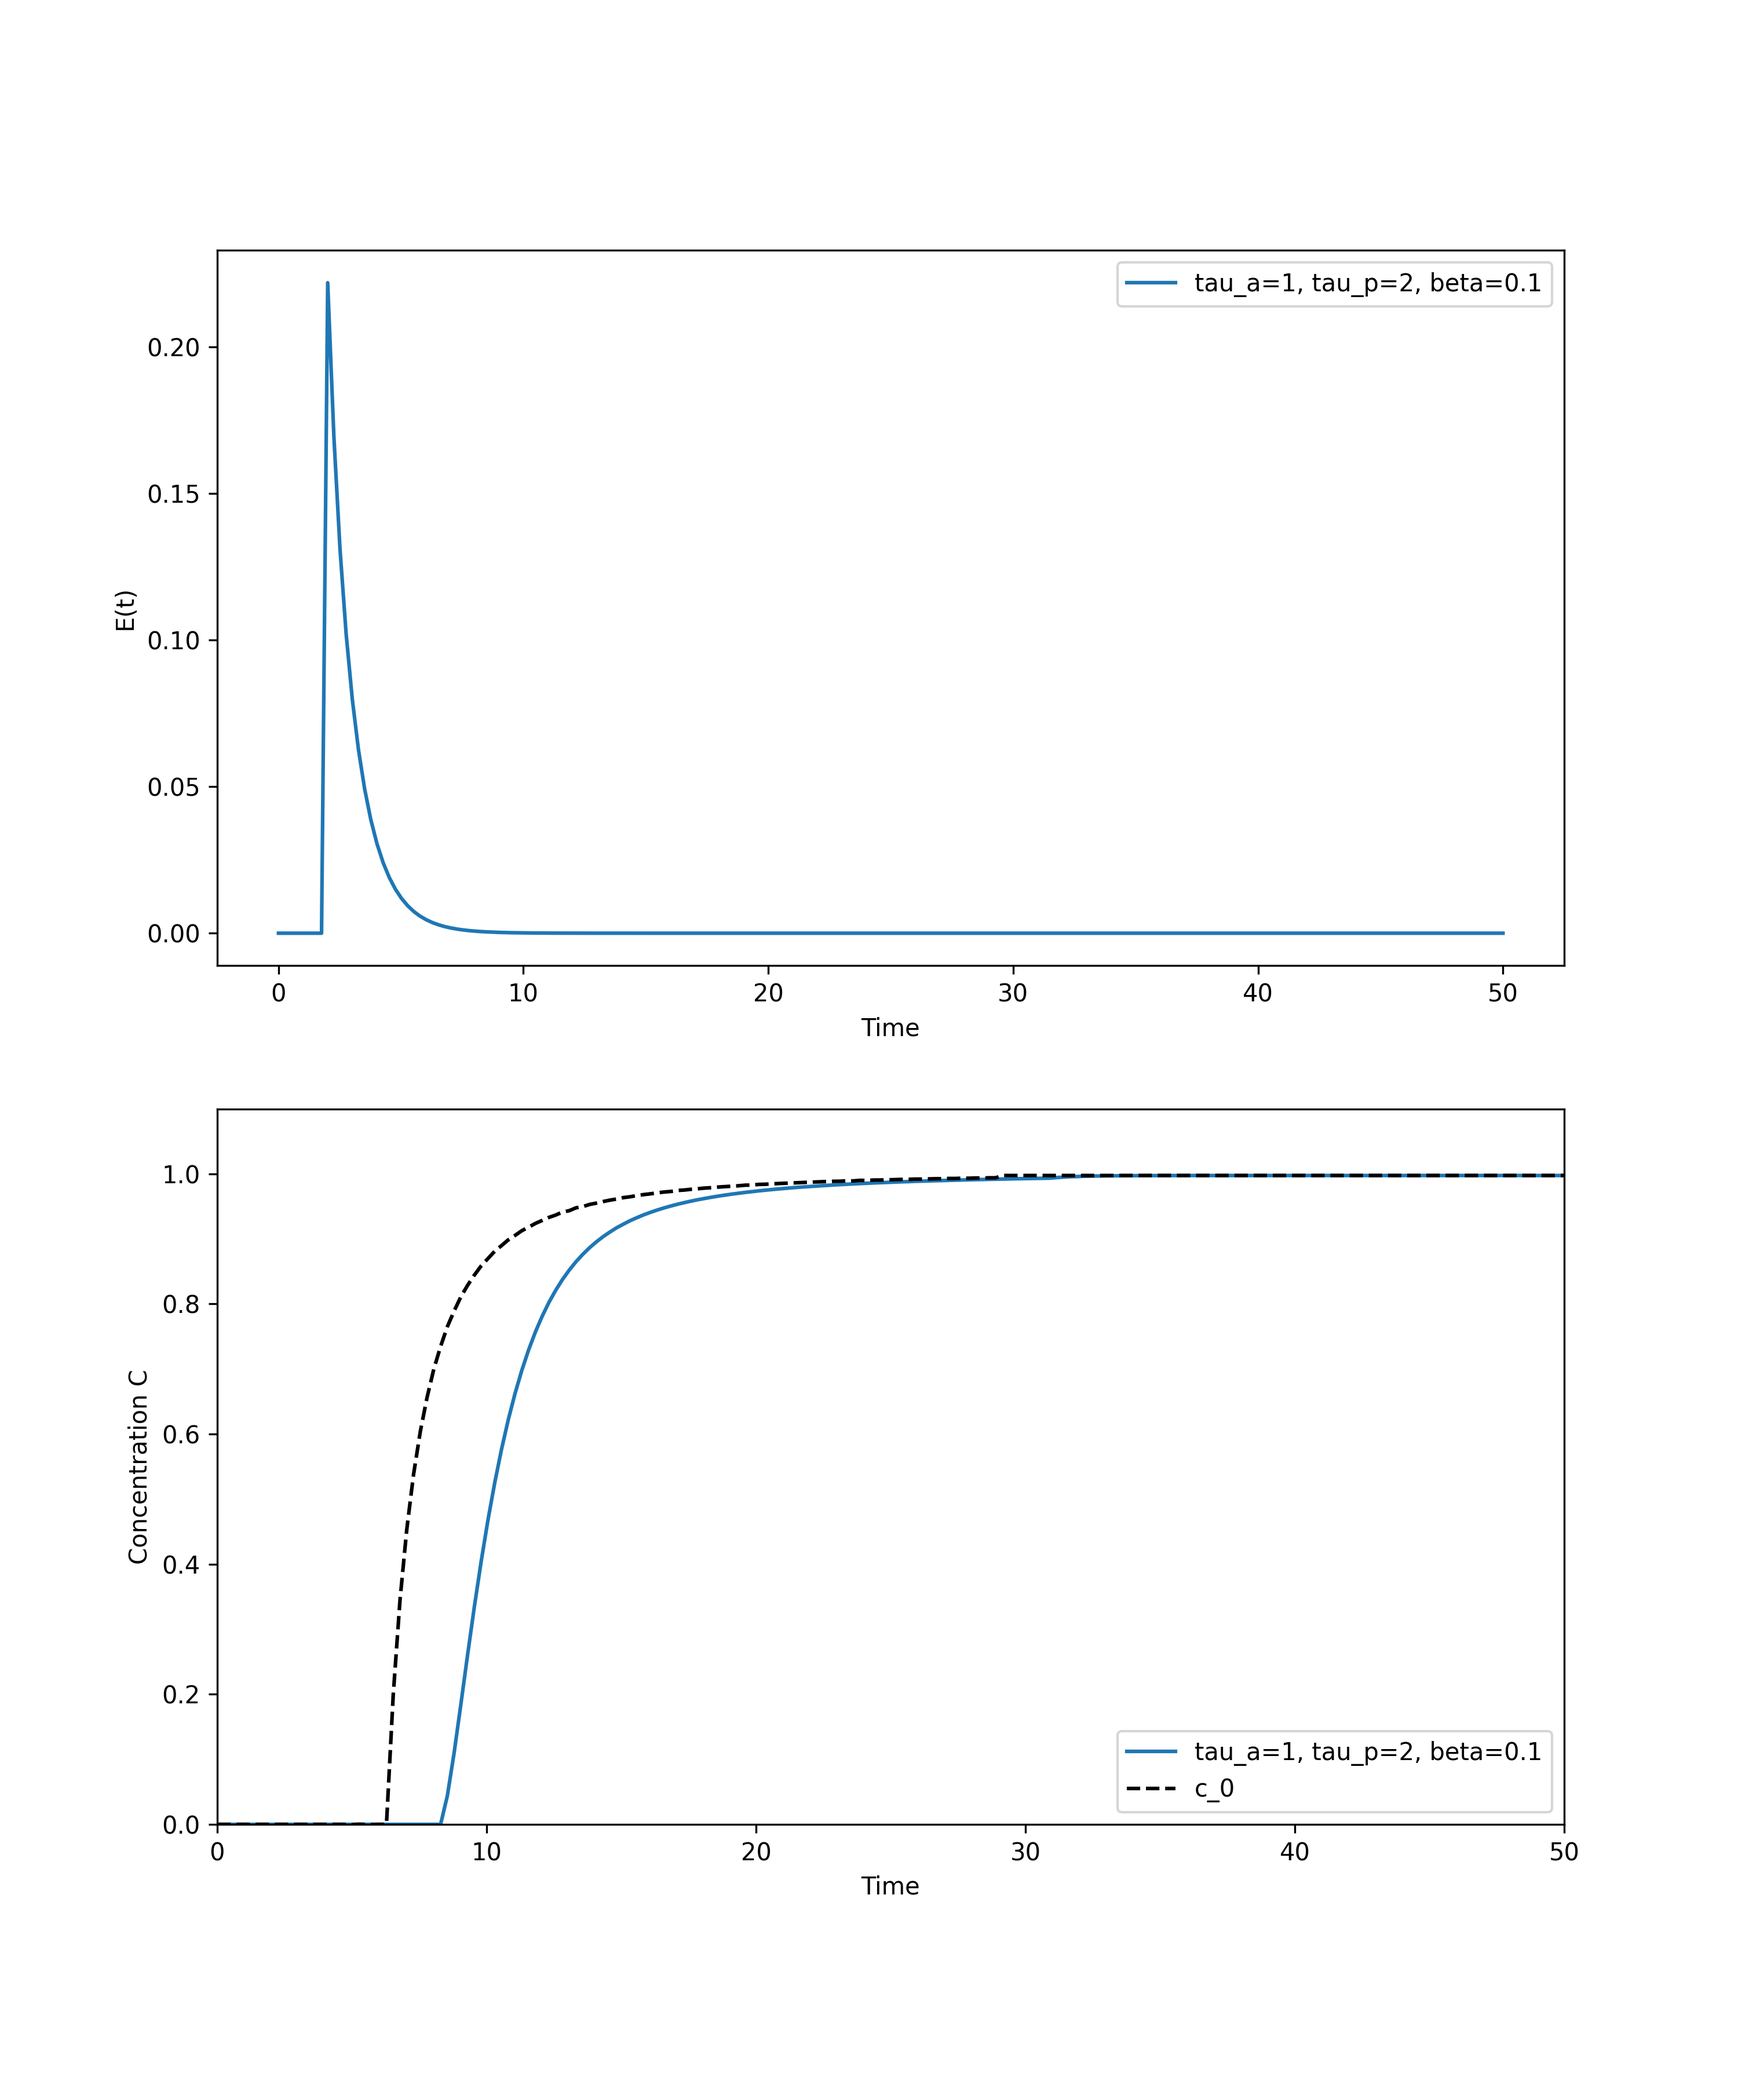
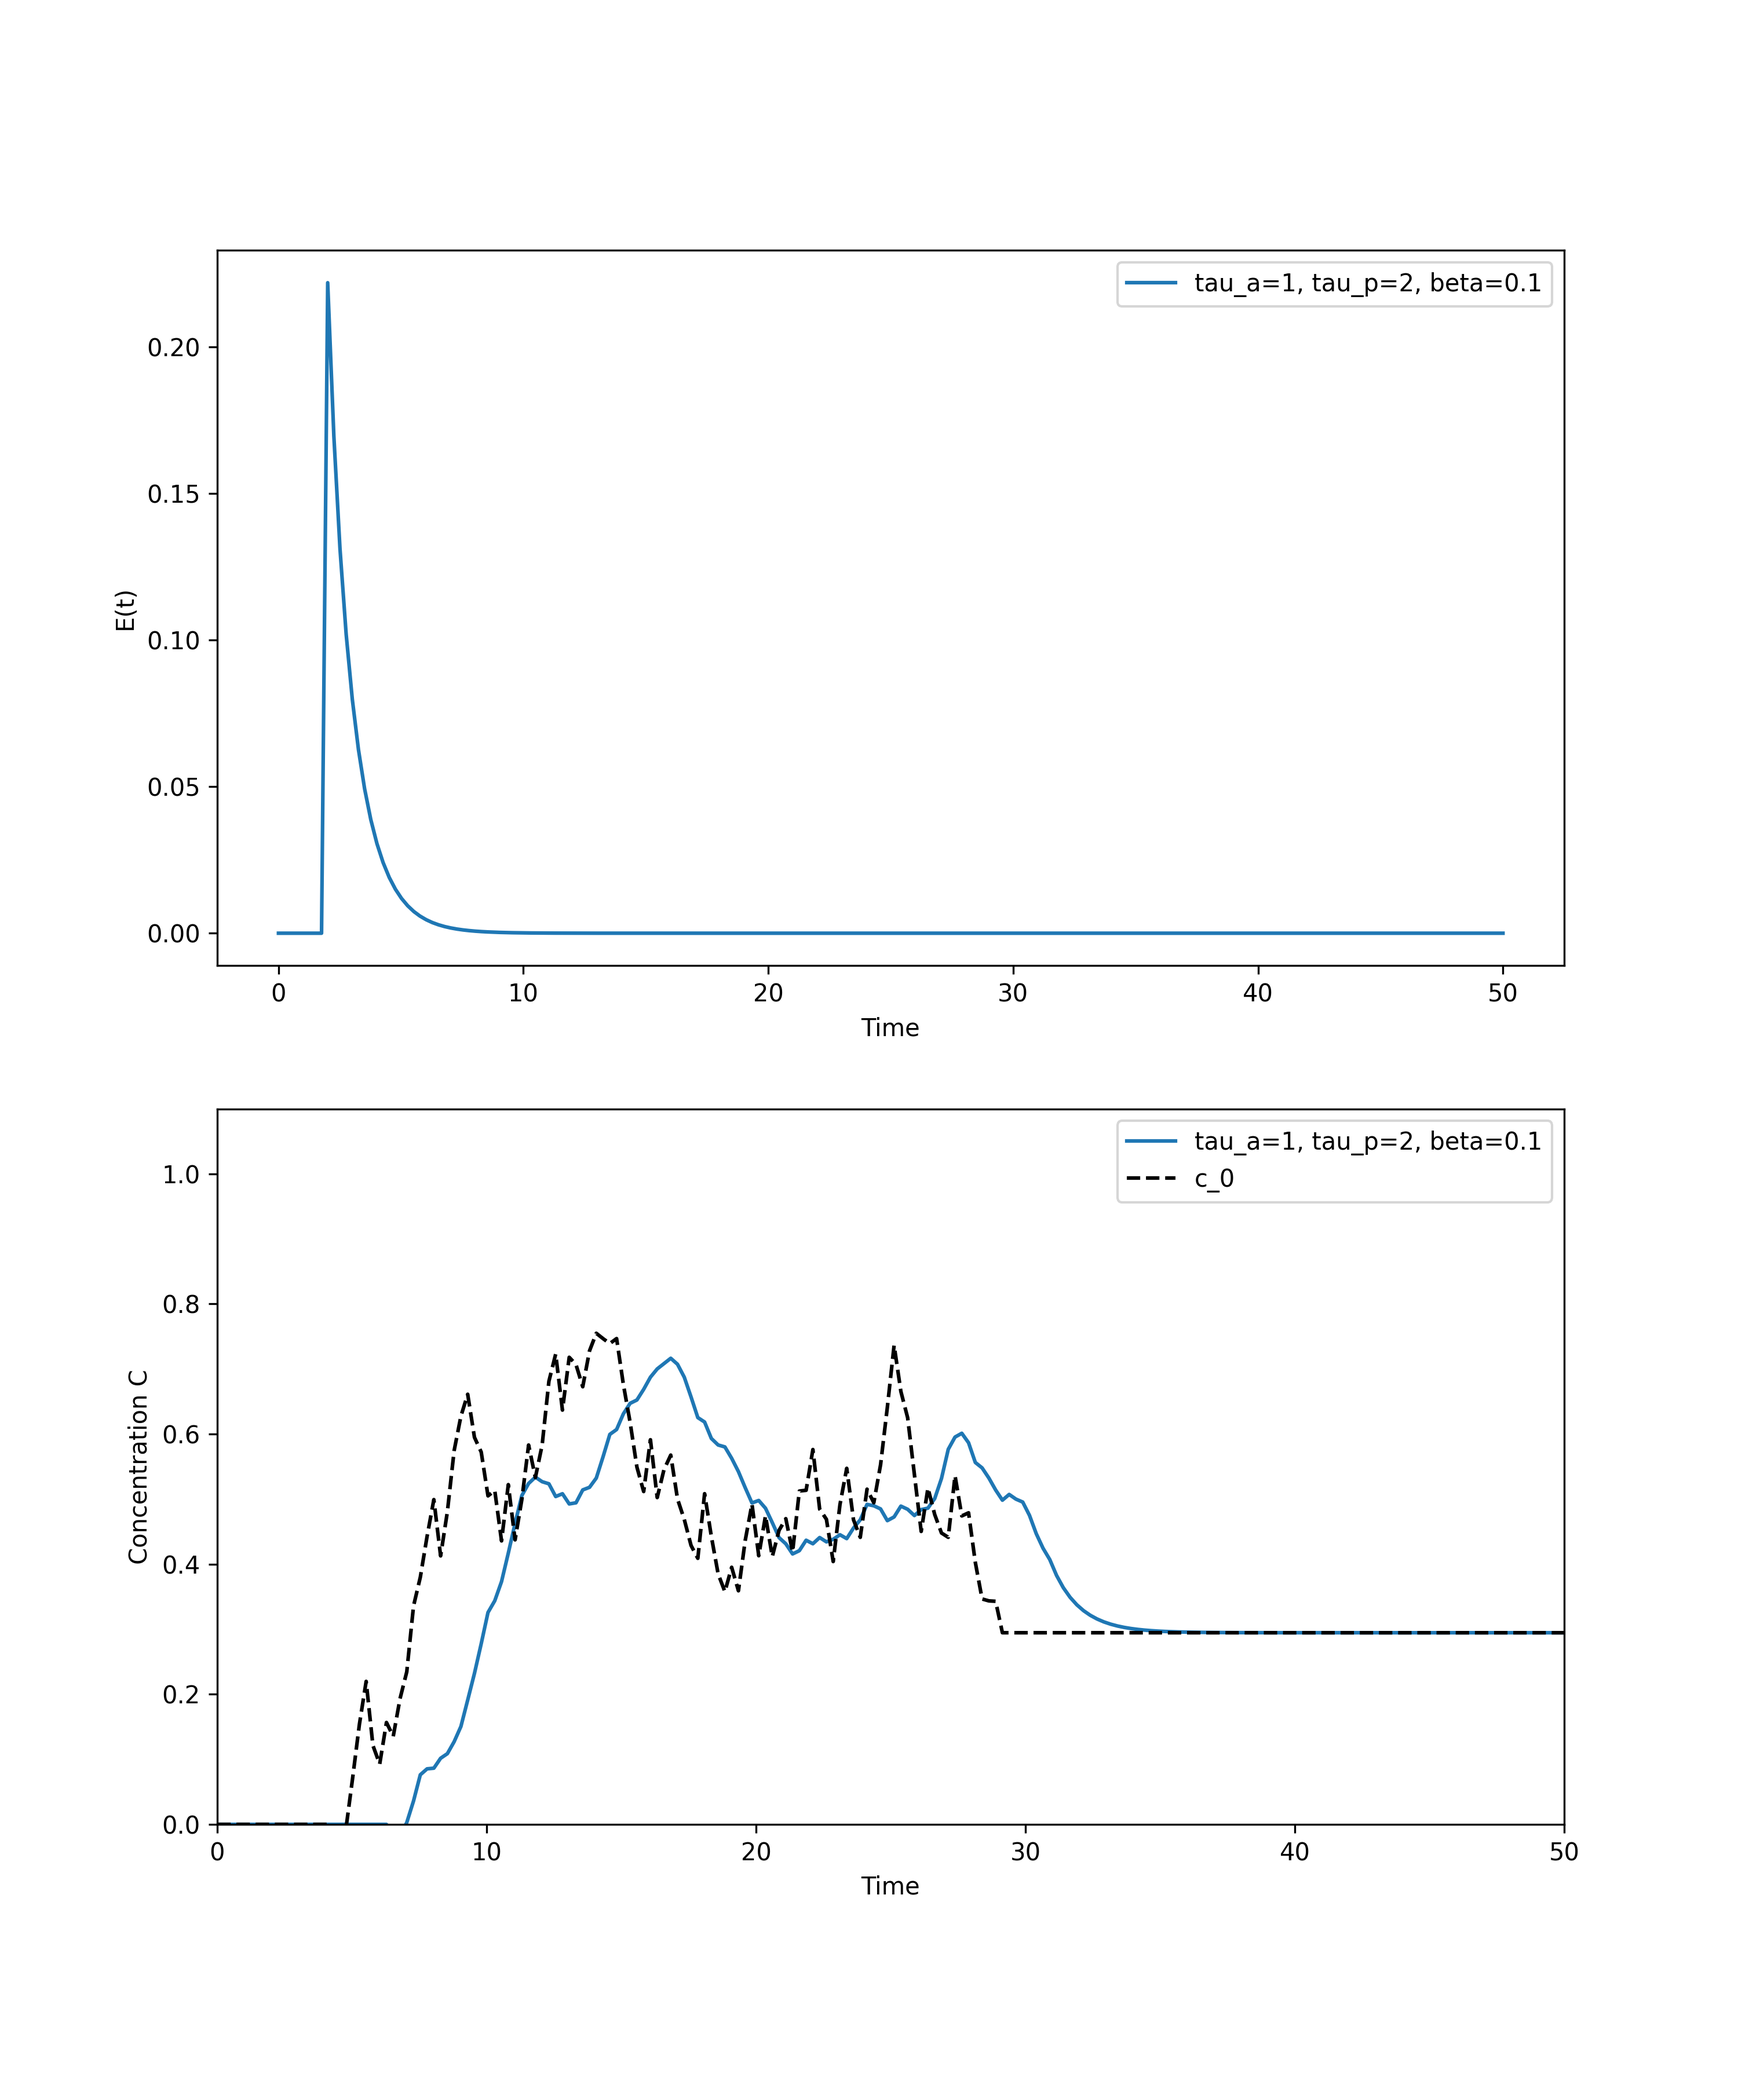
2ndlayer

diff --git a/Experiments/Preliminary/2_nd_Layer_Convolution/Combined_Hannes_suggested_code.py b/Experiments/Preliminary/2_nd_Layer_Convolution/Combined_Hannes_suggested_code.py
@@ -1,11 +1,3 @@
-#!/usr/bin/env python3
-# -*- coding: utf-8 -*-
-"""
-Created on Mon Nov  4 01:23:20 2024
-
-@author: tuanaoyuncu
-"""
-
 import matplotlib.pyplot as plt
 import numpy.typing as npt
 import sys
@@ -28,12 +20,13 @@ n_1_in=100
 n_1_E=99
 n_1_out=200
 n_2_in=n_1_out
-n_2_E=132
+n_2_E=133
 n_2_out=334
 t_lam=60
 t_adl=50
 t_1=30
 t_e=30
+t_e_2=25
 
 #Parameters
 tau_l = 5.0
@@ -163,32 +156,29 @@ c_1_in = torch.zeros((1, 1, n_1_in)).float()
 indices = (t_1_in > 5).squeeze()
 c_1_in[:, :, indices] = 1
 
-# Convert c_out and t_conv to float32
 
-print("c_1_in shape:", c_1_in.shape)  # Should be [1, 1, 100]
-print("t_1_in shape:", t_1_in.shape)  # Should also be [1, 1, 100]
 
-# c_out_list = [torch.tensor(c_out_l)]  # Ensure c_out_l is a tensor
+print("c_1_in shape:", c_1_in.shape)  
+print("t_1_in shape:", t_1_in.shape) 
+
+# c_out_list = [torch.tensor(c_out_l)]  
 
 # # Concatenate tensors in c_out_list along the specified dimension
 # t_conv_list = [torch.tensor(t_conv_l)]
 # c_out = torch.cat(c_out_list, dim=0)
 # t_conv = torch.cat(t_conv_list, dim=0)
 
-c_out_l = torch.tensor(c_out_l).unsqueeze(0).unsqueeze(0)  # Shape [1, 1, 200]
-t_conv_l = torch.tensor(t_conv_l).unsqueeze(0).unsqueeze(0)  # Shape [1, 1, 200]
+c_out_l = torch.tensor(c_out_l).unsqueeze(0).unsqueeze(0)  
+t_conv_l = torch.tensor(t_conv_l).unsqueeze(0).unsqueeze(0) 
 c_out = torch.cat([torch.tensor(c_out_l)], dim=0).float()
 t_conv = torch.cat([torch.tensor(t_conv_l)], dim=0).float()
-# Combine into list if needed
 c_out_list = [c_out_l]
 t_conv_list = [t_conv_l]
-
-# Concatenate along the last dimension
 c_out = torch.cat(c_out_list, dim=-1)
 t_conv = torch.cat(t_conv_list, dim=-1)
 
-print("c_out shape:", c_out.shape)  # Should be [1, 1, 100]
-print("t_conv shape:", t_conv.shape)  # Should also be [1, 1, 100]
+print("c_out shape:", c_out.shape)  
+print("t_conv shape:", t_conv.shape)  
 model = RTDModule(
         kernel_size=n_1_E,
         learning_rate=1e-3,
@@ -202,51 +192,34 @@ t_E = torch.linspace(0, t_e, model.kernel_size)
 E /= E.max()
 print(model(c_1_in).size())
 
-# Convert data in TensorDataset to float32
+
 ds = TensorDataset(c_1_in.float(), c_out_l.float())
+print("c_1_in.float()",c_1_in.float().shape)
+print("c_out_l.float()",c_out_l.float().shape)
 
 dl = DataLoader(ds, batch_size=20, shuffle=True)
-trainer = pl.Trainer(accelerator="auto", max_epochs=10000, deterministic=True)
+trainer = pl.Trainer(accelerator="auto", max_epochs=1, deterministic=True)
 trainer.fit(model, dl)
 trainer.test(model, dl)
 c_conv = model(c_1_in)
 c_conv_results[n_1_out] = c_conv.detach().numpy()
+print("c_conv_results",c_conv.detach().numpy().shape)
 E = model.net.E[0]
 t_E = torch.linspace(0, t_e, model.kernel_size)
 E = E / E.max()
 
-# fig, (ax1, ax2) = plt.subplots(2, 1, sharex=True, figsize=(10, 8))
-# fig.subplots_adjust(hspace=0)
-# ax1.plot(t_1_in, c_1_in[0, 0, :].numpy(), label="Input Signal", color="blue")
-# ax1.plot(t_conv[0, 0, :].numpy(), c_out_l[0, 0, :].numpy(), label="Expected Output", color="green")
-# ax1.plot(t_conv[0, 0, :].numpy(), c_conv[0, 0, :].detach().numpy(), label="Predicted Output", color="red", linestyle="--")
-# ax1.set_xlim((0, 30))
-# ax1.set_ylim((0, 1.1))
-# ax1.set_ylabel('Concentration')
-# ax1.legend()
-
-# ax2.plot(t_E, E, label="Predicted E", color="orange")
-# ax2.plot(t_l, E_laminar, label="Expected E", color="purple", linestyle="--")
-# ax2.set_xlabel('Time')
-# ax2.set_ylabel('E')
-# ax2.legend()
-
-# #plt.savefig(os.path.join(first_layer_CNN_dir, f'Profile_{current_date}_1st_Convolution_Layer_{n_disc_o}.png'), dpi=300)
-# plt.show()
-
-
-
 fig, (ax1, ax2) = plt.subplots(2, 1, sharex=True, figsize=(10, 8))
 fig.subplots_adjust(hspace=0)
 
-# Adjust shapes for compatibility
+
 t_1_in_reshaped = t_1_in.squeeze().numpy()
 c_1_in_reshaped = c_1_in[0, 0, :].squeeze().numpy()
 t_conv_reshaped = t_conv[0, 0, :].squeeze().numpy()
 c_out_l_reshaped = c_out_l[0, 0, :].squeeze().numpy()
 c_conv_reshaped = c_conv[0, 0, :].detach().squeeze().numpy()
+print("c_conv",c_conv.shape)
 
-# Plot the first graph
+
 ax1.plot(t_1_in_reshaped, c_1_in_reshaped, label="Input Signal", color="blue")
 ax1.plot(t_conv_reshaped, c_out_l_reshaped, label="Expected Output", color="green")
 ax1.plot(t_conv_reshaped, c_conv_reshaped, label="Predicted Output", color="red", linestyle="--")
@@ -256,6 +229,55 @@ ax1.set_ylabel('Concentration')
 ax1.legend()
 
 
+c_conv_2_results = {}
+model_2 = RTDModule(
+        kernel_size=n_2_E,
+        learning_rate=1e-3,
+        use_scheduler=True,
+        scheduler_kwargs={"factor": 0.5, "patience": 80},
+    )
+c_conv_2 = model(c_conv)
+E = model.net.E[0]
+t_E = torch.linspace(0, t_e_2, model.kernel_size)
+E /= E.max()
+
+c_out_Adler_tensor = torch.tensor(c_out_Adler).float().unsqueeze(0).unsqueeze(0)
+ds = TensorDataset(c_conv.float(), c_out_Adler_tensor)
+print("c_conv.float()",c_conv.shape)
+print("c_out_Adler_tensor",c_out_Adler_tensor.shape)
+dl = DataLoader(ds, batch_size=1, shuffle=True)
+
+print("c_2_in shape:", c_conv.shape)  
+print("t_2_in shape:", t_conv.shape) 
+print("c_2_out shape:", c_out_Adler_tensor.shape) 
+
+trainer = pl.Trainer(accelerator="auto", max_epochs=10000, deterministic=True)
+trainer.fit(model, dl)
+trainer.test(model, dl)
+c_conv_2 = model(c_conv)
+c_conv_results[n_2_out] = c_conv_2.detach().numpy()
+E = model.net.E[0]
+t_E = torch.linspace(0, t_e_2, model.kernel_size)
+E = E / E.max()
+
+fig, (ax1, ax2) = plt.subplots(2, 1, sharex=True, figsize=(10, 8))
+fig.subplots_adjust(hspace=0)
+
+
+# t_1_in_reshaped = t_1_in.squeeze().numpy()
+# c_1_in_reshaped = c_1_in[0, 0, :].squeeze().numpy()
+# t_conv_reshaped = t_conv[0, 0, :].squeeze().numpy()
+# c_out_l_reshaped = c_out_l[0, 0, :].squeeze().numpy()
+# c_conv_reshaped = c_conv[0, 0, :].detach().squeeze().numpy()
+
+
+ax1.plot(t_conv, c_conv, label="Input Signal", color="blue")
+ax1.plot(t_conv_Adler, c_out_Adler, label="Expected Output", color="green")
+ax1.plot(t_conv_Adler, c_conv_2, label="Predicted Output", color="red", linestyle="--")
+ax1.set_xlim((0, 30))
+ax1.set_ylim((0, 1.1))
+ax1.set_ylabel('Concentration')
+ax1.legend()
 
 # model_1= RTDModule(
 #     kernel_size=n_0_E,

diff --git a/Experiments/Preliminary/Noisy_data/Sqrt_Method/Laminar_Flow_Model_Sqrt_Noisy_multiple.py b/Experiments/Preliminary/Noisy_data/Sqrt_Method/Laminar_Flow_Model_Sqrt_Noisy_multiple.py
@@ -22,10 +22,10 @@ import wandb
 
 n_disc = 100
 t_input = torch.linspace(0, 30, n_disc)
-c_in = torch.zeros((20, 1, n_disc))
+c_in = torch.zeros((10, 1, n_disc))
 c_in[:, :, t_input > 5] = 1
 #c_in[1::2, :, t_input < 5] = 1
-file_numbers = range(1, 21)
+file_numbers = range(1, 11)
 c_out_list = []
 t_conv_list = []
 # file_numbers = range(1, 21, 2)
@@ -94,14 +94,19 @@ ds = TensorDataset(c_in, c_out)
 dl = DataLoader(ds, batch_size=20, shuffle=True)
 
 # set up the logger
-wandb_logger = pl_loggers.WandbLogger(
-    project="nRTD",
-    log_model=True)
+# wandb_logger = pl_loggers.WandbLogger(
+#     project="nRTD",
+#     log_model=True)
 
+# trainer = pl.Trainer(
+#     accelerator="auto",
+#     max_epochs=10000,
+#     logger=wandb_logger, deterministic=True
+# )
 trainer = pl.Trainer(
     accelerator="auto",
     max_epochs=10000,
-    logger=wandb_logger, deterministic=True
+     deterministic=True
 )
 
 trainer.fit(model, dl)
@@ -146,7 +151,7 @@ plt.legend()
 
 #wandb.finish()
 
-#plt.savefig("Figure_C_002_H_135_C2")
+plt.savefig("10_file_Noisy")
 plt.show()
 
 

diff --git a/Experiments/Preliminary/2_nd_Layer_Convolution/2nd_Layer.py b/Experiments/Preliminary/2_nd_Layer_Convolution/2nd_Layer.py
@@ -9,7 +9,7 @@ from torch.utils.data import TensorDataset, DataLoader
 import lightning.pytorch as pl
 import numpy as np
 import wandb
-from nrtd import RTDModule
+from nRTD import RTDModule
 from lightning.pytorch import loggers as pl_loggers
 import sympy as sp
 import os
@@ -120,7 +120,7 @@ for n_disc_o, kernel_size, n_disc in discretization_confg:
     ds = TensorDataset(c_in, c_out_tau)
     dl = DataLoader(ds, batch_size=20, shuffle=True)
 
-    trainer = pl.Trainer(accelerator="auto", max_epochs=10000, deterministic=True)
+    trainer = pl.Trainer(accelerator="auto", max_epochs=1, deterministic=True)
     trainer.fit(model, dl)
     trainer.test(model, dl)
     c_conv = model(c_in)
